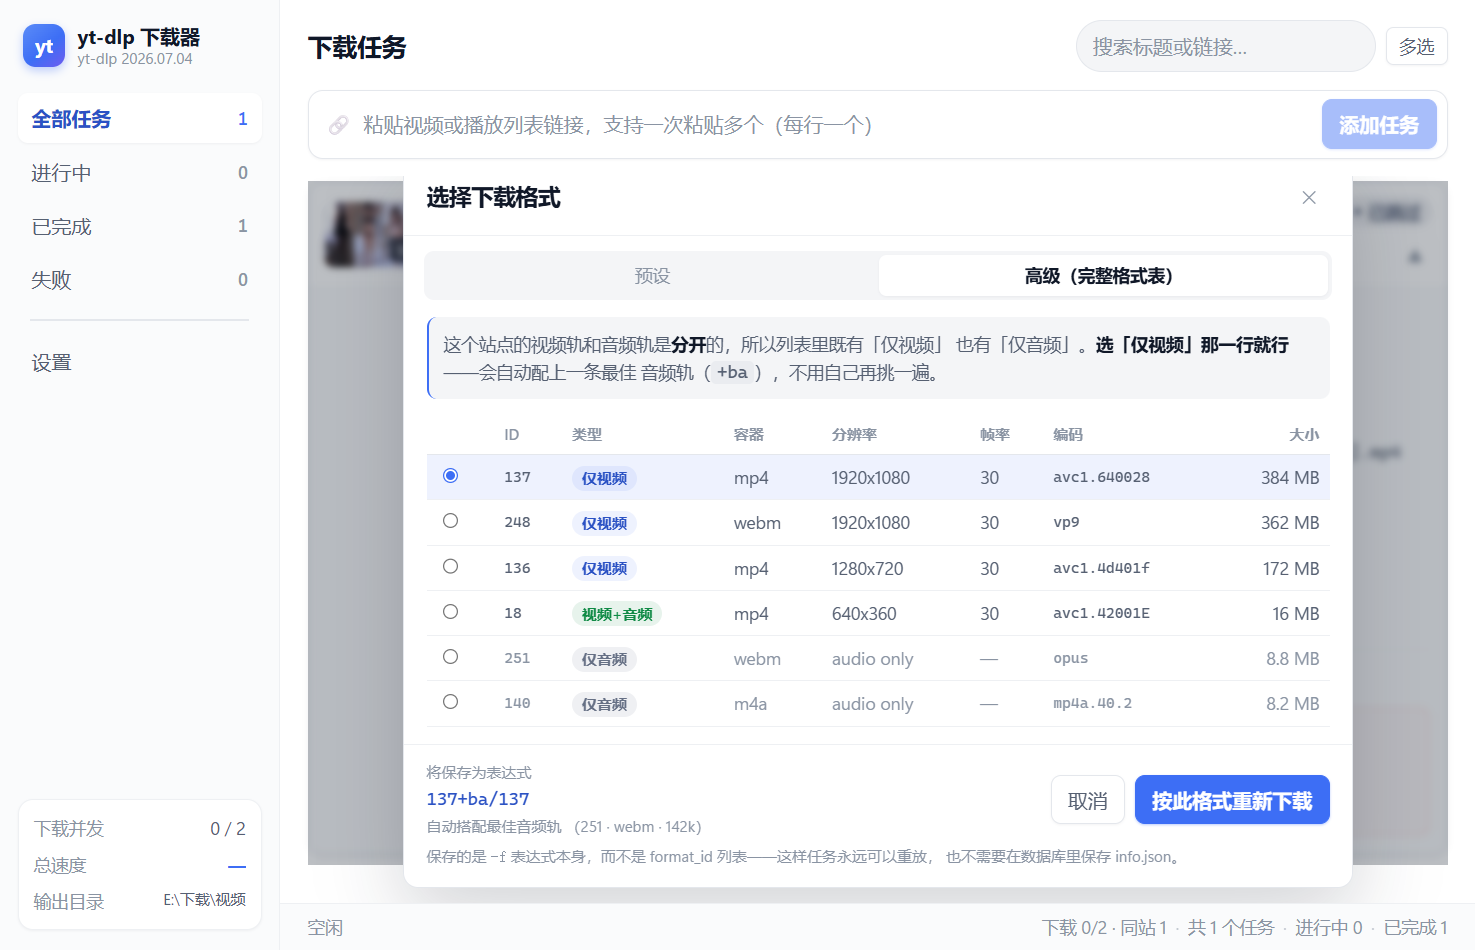
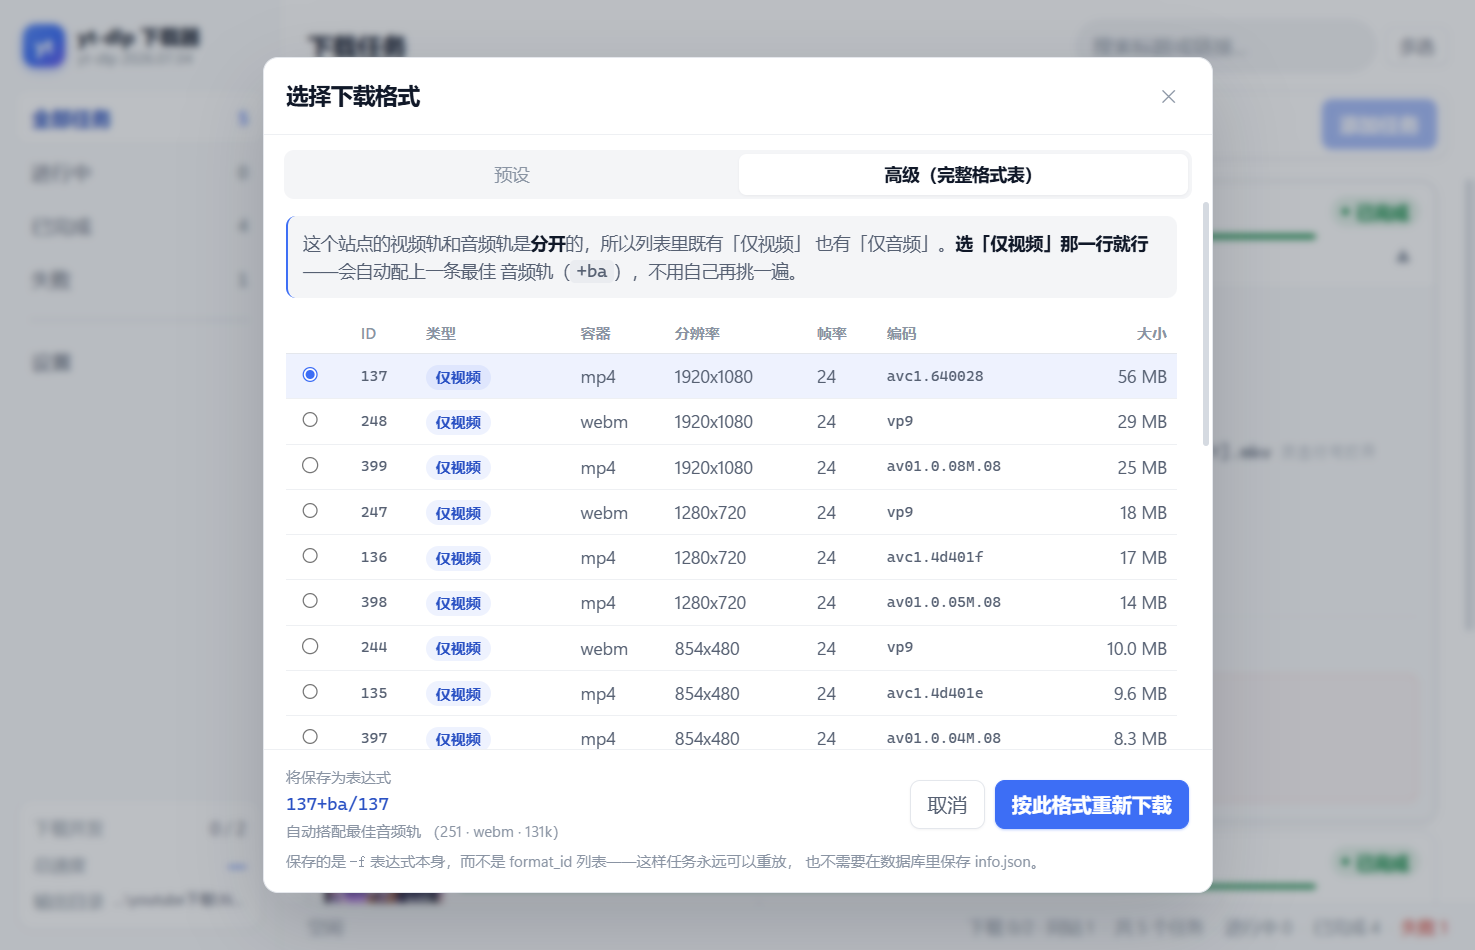
修：格式选择器弹层没铺满窗口，长表格时底部按钮点不到
用户报「添加任务后选择格式，高级完整格式表太长就点不到下面的按钮」。
表面看像「内容太长」，实际是**弹层根本没铺满窗口**。

根因：`.mask` 是 `position: fixed; inset: 0`，但它渲染在**任务行里面**，
而任务行的 `.vitem` 上有

    transform: matrix(1, 0, 0, 1, 0, 0);   /* 虚拟滚动用它做位移 */
    will-change: transform;

**带 transform 的祖先会成为 position: fixed 的包含块**（CSS 规范如此）。
于是 `inset: 0` 变成「铺满那一行」而不是铺满窗口，弹窗按**行**居中，
一长就顶到视口外面——而 .modal 是 overflow: hidden，被裁掉的按钮滚不到也点不着。

实测（窗口 940×560，23 行格式表）：

  修前：弹窗 159..651（视口只有 560）；按钮区 556..617；主按钮在视口内 = false
  修后：弹窗  34..526 居中；        按钮区 431..492；主按钮在视口内 = true
        遮罩也从「只盖一行」变成 0..560 铺满

另外那条遮罩只盖住一行的症状其实一直摆在旧截图里（侧栏和顶栏没变暗），
只是没人往那个方向想。

修法：
1. 两个弹层（FormatPicker / PlaylistPicker）都 `<Teleport to="body">`，
   包含块重新变回视口。`<style scoped>` 用属性选择器定位，Teleport 后样式照旧。
   PlaylistPicker 有同一个毛病——500 集的播放列表正好是「太长」的典型。
2. `.body` 补上 `min-height: 0`：flex 子项默认 `min-height: auto`（不许缩到比
   内容矮），少了它长表格照样把 footer 挤出 .modal。

重录 docs/screenshots/format-picker.png（旧图正好拍下了那个 bug：遮罩没盖住侧栏）。

DESIGN 新增 §9.8 记录这个坑（并把编号排在 §9.7 之后，README 里引用的 §9.7 不受影响）。

vue-tsc 与 vite build 通过（纯前端改动）。

diff --git a/src/components/FormatPicker.vue b/src/components/FormatPicker.vue
@@ -156,132 +156,142 @@ const effectiveExpr = computed(() =>
 </script>
 
 <template>
-  <div class="mask" @click.self="emit('close')">
-    <div class="modal">
-      <header>
-        <h2>选择下载格式</h2>
-        <button class="btn ghost sm" @click="emit('close')">✕</button>
-      </header>
+  <!--
+    ⚠ **必须 Teleport 到 body**，不能就地渲染。
+    这个弹层用的是 `position: fixed`，而任务行的 `.vitem` 上有
+    `transform`（虚拟滚动用它做位移）——**带 transform 的祖先会成为
+    fixed 的包含块**。于是 `inset: 0` 变成「铺满那一行」而不是铺满窗口：
+    弹窗按**行**居中，一长就顶到视口外面，底下的按钮点不到（用户报的就是这个）。
+    Teleport 出去，包含块重新变回视口。
+  -->
+  <Teleport to="body">
+    <div class="mask" @click.self="emit('close')">
+      <div class="modal">
+        <header>
+          <h2>选择下载格式</h2>
+          <button class="btn ghost sm" @click="emit('close')">✕</button>
+        </header>
 
-      <div class="tabs">
-        <button :class="{ on: mode === 'preset' }" @click="mode = 'preset'">预设</button>
-        <button :class="{ on: mode === 'advanced' }" @click="mode = 'advanced'">
-          高级（完整格式表）
-        </button>
-      </div>
-
-      <div class="body">
-        <!-- ── 预设 ── -->
-        <div v-if="mode === 'preset'" class="presets">
-          <button
-            v-for="p in presets"
-            :key="p.label"
-            class="preset"
-            :class="{ on: expression === p.expr }"
-            @click="emit('apply', p.expr)"
-          >
-            <div class="p-label">{{ p.label }}</div>
-            <div class="p-note">{{ p.note }}</div>
-            <code class="mono">{{ p.expr }}</code>
+        <div class="tabs">
+          <button :class="{ on: mode === 'preset' }" @click="mode = 'preset'">预设</button>
+          <button :class="{ on: mode === 'advanced' }" @click="mode = 'advanced'">
+            高级（完整格式表）
           </button>
         </div>
 
-        <!-- ── 高级 ── -->
-        <div v-else-if="loading" class="loading">正在读取格式列表…</div>
-        <div v-else-if="formats.length === 0" class="loading">
-          没有可用的格式信息（探测可能失败或该链接不支持）
-        </div>
-        <template v-else>
-          <!--
-            这个提示是必须的：DASH 站点把音视频分开列，用户看到两列里各有一半是
-            「—」会直接懵住（「这样怎么选择」）。
-          -->
-          <p class="kind-note">
-            这个站点的视频轨和音频轨是<strong>分开</strong>的，所以列表里既有「仅视频」
-            也有「仅音频」。<strong>选「仅视频」那一行就行</strong>——会自动配上一条最佳
-            音频轨（<code class="mono">+ba</code>），不用自己再挑一遍。
-          </p>
-
-          <table class="fmt">
-            <thead>
-              <tr>
-                <th></th>
-                <th>ID</th>
-                <th>类型</th>
-                <th>容器</th>
-                <th>分辨率</th>
-                <th>帧率</th>
-                <th>编码</th>
-                <th class="r">大小</th>
-              </tr>
-            </thead>
-            <tbody>
-              <tr
-                v-for="f in sorted"
-                :key="f.formatId"
-                :class="[kindOf(f), { on: picked === f.formatId }]"
-                :title="KIND_HINT[kindOf(f)]"
-                @click="picked = f.formatId"
-              >
-                <td><input type="radio" :checked="picked === f.formatId" /></td>
-                <td class="mono">{{ f.formatId }}</td>
-                <td>
-                  <span class="kind" :class="kindOf(f)">{{ KIND_LABEL[kindOf(f)] }}</span>
-                </td>
-                <td>{{ f.ext }}</td>
-                <td>{{ f.resolution }}</td>
-                <td>{{ f.fps ?? '—' }}</td>
-                <td class="mono dim">
-                  {{ has(f.vcodec) ? f.vcodec : f.acodec }}
-                </td>
-                <td class="r">{{ fmtBytes(f.filesize) }}</td>
-              </tr>
-            </tbody>
-          </table>
-        </template>
-      </div>
-
-      <footer>
-        <div class="expr">
-          <span class="lbl">将保存为表达式</span>
-          <code class="mono">{{ effectiveExpr || '请选择一行' }}</code>
-          <!-- 选了仅视频轨时，明确告诉用户音频从哪来 -->
-          <span v-if="mode === 'advanced' && pickedFormat && kindOf(pickedFormat) === 'video'" class="pair">
-            自动搭配最佳音频轨<template v-if="bestAudio">
-              （{{ bestAudio.formatId }} · {{ bestAudio.ext }} ·
-              {{ bestAudio.tbr ? Math.round(bestAudio.tbr) + 'k' : '—' }}）</template
+        <div class="body">
+          <!-- ── 预设 ── -->
+          <div v-if="mode === 'preset'" class="presets">
+            <button
+              v-for="p in presets"
+              :key="p.label"
+              class="preset"
+              :class="{ on: expression === p.expr }"
+              @click="emit('apply', p.expr)"
             >
-          </span>
-        </div>
-        <button class="btn" @click="emit('close')">取消</button>
-        <button
-          v-if="overridden"
-          class="btn"
-          title="改回跟随「设置 → 格式」里的预设"
-          @click="emit('apply', '')"
-        >
-          恢复默认
-        </button>
-        <button
-          class="btn primary"
-          :disabled="!effectiveExpr"
-          :title="
-            mode === 'advanced' && derived
-              ? '按新格式重新下载这个任务'
-              : '按这个预设重新下载这个任务'
-          "
-          @click="emit('apply', effectiveExpr)"
-        >
-          按此格式重新下载
-        </button>
-      </footer>
+              <div class="p-label">{{ p.label }}</div>
+              <div class="p-note">{{ p.note }}</div>
+              <code class="mono">{{ p.expr }}</code>
+            </button>
+          </div>
 
-      <p class="foot-note">
-        保存的是 <code>-f</code> 表达式本身，而不是 format_id 列表——这样任务永远可以重放，
-        也不需要在数据库里保存 info.json。
-      </p>
-    </div>
-  </div>
+          <!-- ── 高级 ── -->
+          <div v-else-if="loading" class="loading">正在读取格式列表…</div>
+          <div v-else-if="formats.length === 0" class="loading">
+            没有可用的格式信息（探测可能失败或该链接不支持）
+          </div>
+          <template v-else>
+            <!--
+              这个提示是必须的：DASH 站点把音视频分开列，用户看到两列里各有一半是
+              「—」会直接懵住（「这样怎么选择」）。
+            -->
+            <p class="kind-note">
+              这个站点的视频轨和音频轨是<strong>分开</strong>的，所以列表里既有「仅视频」
+              也有「仅音频」。<strong>选「仅视频」那一行就行</strong>——会自动配上一条最佳
+              音频轨（<code class="mono">+ba</code>），不用自己再挑一遍。
+            </p>
+
+            <table class="fmt">
+              <thead>
+                <tr>
+                  <th></th>
+                  <th>ID</th>
+                  <th>类型</th>
+                  <th>容器</th>
+                  <th>分辨率</th>
+                  <th>帧率</th>
+                  <th>编码</th>
+                  <th class="r">大小</th>
+                </tr>
+              </thead>
+              <tbody>
+                <tr
+                  v-for="f in sorted"
+                  :key="f.formatId"
+                  :class="[kindOf(f), { on: picked === f.formatId }]"
+                  :title="KIND_HINT[kindOf(f)]"
+                  @click="picked = f.formatId"
+                >
+                  <td><input type="radio" :checked="picked === f.formatId" /></td>
+                  <td class="mono">{{ f.formatId }}</td>
+                  <td>
+                    <span class="kind" :class="kindOf(f)">{{ KIND_LABEL[kindOf(f)] }}</span>
+                  </td>
+                  <td>{{ f.ext }}</td>
+                  <td>{{ f.resolution }}</td>
+                  <td>{{ f.fps ?? '—' }}</td>
+                  <td class="mono dim">
+                    {{ has(f.vcodec) ? f.vcodec : f.acodec }}
+                  </td>
+                  <td class="r">{{ fmtBytes(f.filesize) }}</td>
+                </tr>
+              </tbody>
+            </table>
+          </template>
+        </div>
+
+        <footer>
+          <div class="expr">
+            <span class="lbl">将保存为表达式</span>
+            <code class="mono">{{ effectiveExpr || '请选择一行' }}</code>
+            <!-- 选了仅视频轨时，明确告诉用户音频从哪来 -->
+            <span v-if="mode === 'advanced' && pickedFormat && kindOf(pickedFormat) === 'video'" class="pair">
+              自动搭配最佳音频轨<template v-if="bestAudio">
+                （{{ bestAudio.formatId }} · {{ bestAudio.ext }} ·
+                {{ bestAudio.tbr ? Math.round(bestAudio.tbr) + 'k' : '—' }}）</template
+              >
+            </span>
+          </div>
+          <button class="btn" @click="emit('close')">取消</button>
+          <button
+            v-if="overridden"
+            class="btn"
+            title="改回跟随「设置 → 格式」里的预设"
+            @click="emit('apply', '')"
+          >
+            恢复默认
+          </button>
+          <button
+            class="btn primary"
+            :disabled="!effectiveExpr"
+            :title="
+              mode === 'advanced' && derived
+                ? '按新格式重新下载这个任务'
+                : '按这个预设重新下载这个任务'
+            "
+            @click="emit('apply', effectiveExpr)"
+          >
+            按此格式重新下载
+          </button>
+        </footer>
+
+        <p class="foot-note">
+          保存的是 <code>-f</code> 表达式本身，而不是 format_id 列表——这样任务永远可以重放，
+          也不需要在数据库里保存 info.json。
+        </p>
+        </div>
+      </div>
+  </Teleport>
 </template>
 
 <style scoped>
@@ -349,6 +359,17 @@ header h2 {
 
 .body {
   flex: 1;
+  /**
+   * ⚠ `min-height: 0` 是必须的，不是可有可无的保险。
+   *
+   * flex 子项的默认 `min-height` 是 `auto`——意思是「不许缩到比内容还矮」。
+   * 于是格式表一长，`.body` 就撑到比 `.modal` 的 `max-height: 88vh` 还高，
+   * 把 `footer`（「按此格式重新下载」那几个按钮）挤到可视区外；
+   * 而 `.modal` 是 `overflow: hidden`，**被裁掉的部分滚不到、点不着**。
+   *
+   * 实测用户遇到的就是这个：高级格式表太长 → 底下的按钮点不到。
+   */
+  min-height: 0;
   overflow: auto;
   padding: 14px 18px;
 }

diff --git a/src/components/PlaylistPicker.vue b/src/components/PlaylistPicker.vue
@@ -68,52 +68,57 @@ async function confirm() {
 </script>
 
 <template>
-  <div class="mask" @click.self="emit('close')">
-    <div class="modal">
-      <header>
-        <div>
-          <h2>选择要下载的集数</h2>
-          <p class="sub">共 {{ entries.length }} 集 · 已选 {{ selected.size }} 集 · 合计约 {{ fmtDuration(totalDuration) }}</p>
+  <!-- ⚠ 必须 Teleport 到 body：任务行 `.vitem` 上有 transform（虚拟滚动），
+       带 transform 的祖先会成为 `position: fixed` 的包含块，弹层就只铺满那一行、
+       按行居中，一长就顶出视口、按钮点不到。详见 FormatPicker.vue 的说明。 -->
+  <Teleport to="body">
+    <div class="mask" @click.self="emit('close')">
+      <div class="modal">
+        <header>
+          <div>
+            <h2>选择要下载的集数</h2>
+            <p class="sub">共 {{ entries.length }} 集 · 已选 {{ selected.size }} 集 · 合计约 {{ fmtDuration(totalDuration) }}</p>
+          </div>
+          <button class="btn ghost sm" @click="emit('close')">✕</button>
+        </header>
+
+        <div class="toolbar">
+          <input v-model="filter" class="search" type="search" placeholder="筛选标题…" />
+          <button class="btn sm" @click="selectAll">全选</button>
+          <button class="btn sm" @click="selectNone">全不选</button>
+          <button class="btn sm" @click="invert">反选</button>
+          <span class="spacer" />
+          <input v-model.number="firstN" class="num" type="number" min="1" placeholder="N" />
+          <button class="btn sm" @click="applyFirstN">只选前 N 集</button>
         </div>
-        <button class="btn ghost sm" @click="emit('close')">✕</button>
-      </header>
 
-      <div class="toolbar">
-        <input v-model="filter" class="search" type="search" placeholder="筛选标题…" />
-        <button class="btn sm" @click="selectAll">全选</button>
-        <button class="btn sm" @click="selectNone">全不选</button>
-        <button class="btn sm" @click="invert">反选</button>
-        <span class="spacer" />
-        <input v-model.number="firstN" class="num" type="number" min="1" placeholder="N" />
-        <button class="btn sm" @click="applyFirstN">只选前 N 集</button>
+        <div class="list">
+          <label
+            v-for="{ e, i } in shown"
+            :key="i"
+            class="item"
+            :class="{ on: selected.has(i) }"
+          >
+            <input type="checkbox" :checked="selected.has(i)" @change="toggle(i)" />
+            <span class="idx">{{ i + 1 }}</span>
+            <span class="title" :title="e.title">{{ e.title }}</span>
+            <span class="dur">{{ e.duration ? fmtDuration(e.duration) : '—' }}</span>
+          </label>
+          <div v-if="shown.length === 0" class="none">没有匹配的条目</div>
+        </div>
+
+        <footer>
+          <span class="hint">
+            选集通过 <code>--playlist-items</code> 交给 yt-dlp，不会为每集单独建任务
+          </span>
+          <button class="btn" @click="emit('close')">取消</button>
+          <button class="btn primary" :disabled="selected.size === 0 || busy" @click="confirm">
+            开始下载{{ allSelected ? '全部' : `（${selected.size} 集）` }}
+          </button>
+        </footer>
       </div>
-
-      <div class="list">
-        <label
-          v-for="{ e, i } in shown"
-          :key="i"
-          class="item"
-          :class="{ on: selected.has(i) }"
-        >
-          <input type="checkbox" :checked="selected.has(i)" @change="toggle(i)" />
-          <span class="idx">{{ i + 1 }}</span>
-          <span class="title" :title="e.title">{{ e.title }}</span>
-          <span class="dur">{{ e.duration ? fmtDuration(e.duration) : '—' }}</span>
-        </label>
-        <div v-if="shown.length === 0" class="none">没有匹配的条目</div>
-      </div>
-
-      <footer>
-        <span class="hint">
-          选集通过 <code>--playlist-items</code> 交给 yt-dlp，不会为每集单独建任务
-        </span>
-        <button class="btn" @click="emit('close')">取消</button>
-        <button class="btn primary" :disabled="selected.size === 0 || busy" @click="confirm">
-          开始下载{{ allSelected ? '全部' : `（${selected.size} 集）` }}
-        </button>
-      </footer>
     </div>
-  </div>
+  </Teleport>
 </template>
 
 <style scoped>
